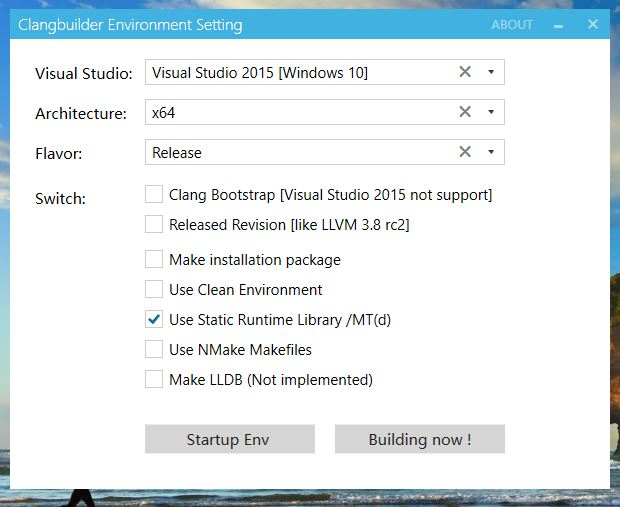
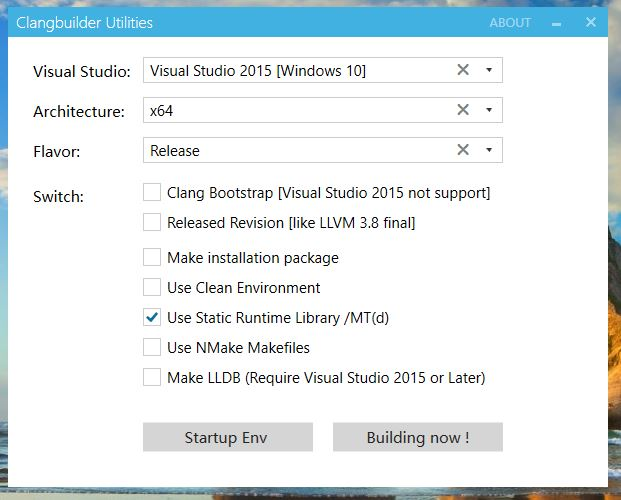
Update ReadMe.md

diff --git a/ReadMe.md b/ReadMe.md
@@ -1,9 +1,8 @@
-Clang Auto Builder
-===
-ClangOnWin Build Environment vNext, Long Term Evolution   
+# Clang Builder   
+Clang Build Environment On Windows, Long Term Evolution   
 
-##Installation:
-####Usually:
+## Installation:
+#### Usually:
 Download from Github, If your known use Git  
 
 ```
@@ -33,7 +32,7 @@ Set-ExecutionPolicy RemoteSigned
 ```
 
 
-####WebInstaller:
+#### Web Installer:
 
 PowerShell, Enter:    
 ```powershell
@@ -50,17 +49,17 @@ Cmd Enter:
 **Your Should Input Your ClangSetup Install Loaction!!!!**
 
 
-##ClangOnWin  
+## Clang on Windows  
 
-Build Clang,Base Visual Studio
->Visual Studio 2013 or Later,It's Best for VisualStudio 2013 Update 4
+When Build Clang on Windows,Best of Visual Studio version
+>VisualStudio 2013 Update 4
 
 Or Your can use Mingw-w64,your can cross compile LLVM on Linux ,Mingw-w64 Support it.
 
 The Other,Your can use cmake to create MinGW Makefile,or NMake Makefile ,run it ,The C and C++ Compiler is Mingw-w64 tools ( i686-w64-mingw32-gcc ,x86_64-w64-mingw32-g++)
 
 
-##Automated build
+## Automated build
 Run    
 ```cmd
 PowerShell -File .\bin\ClangbuilderManager.ps1 -VisualStudio 120 -Arch x64 -Flavor Release -Clear -Static
@@ -68,7 +67,7 @@ PowerShell -File .\bin\ClangbuilderManager.ps1 -VisualStudio 120 -Arch x64 -Flav
 
 
 
-##User Interface
+## User Interface
 ClangbuilderUI        
 
 ![clangbuilderUI](https://raw.githubusercontent.com/fstudio/clangbuilder/master/doc/images/ClangbuilderUI.jpg)
@@ -77,10 +76,17 @@ Launcher
 ![launcher](https://raw.githubusercontent.com/fstudio/clangbuilder/master/doc/images/launcher.jpg)
 
 
-##Use Clean Environment
--Clear Flag will reset current process Environment Path Value.
+## Suggest
+1. Best Platform is Windows 10 x64   
+2. -Clear flag will reset current process Environment PATH value, Resolve conflict environment variables    
+3. Clang bootstrap only support Visual Studio 2013 , Because clang-cl current current cannot parse Visual Studio 2015 headers and library.   
+4. Build LLDB require Visual Studio 2015, When you not install Python 3.x ,Clangbuilder will download python.exe after inform you install.   
+5. Build LLDB, not test on Windows x86, maybe cannot find PYTHONHOME.
 
-##Other
 
+
+
+## Other
+First Author: @fcharlie     
 Copyright © 2016 ForceStudio. All Rights Reserved.
 
